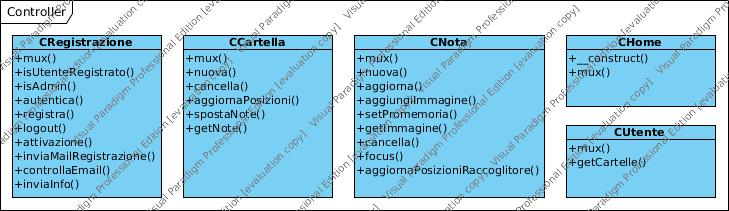
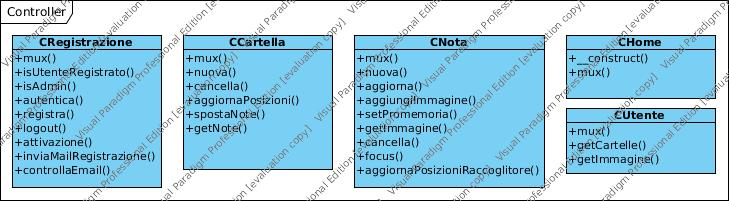
aggiornamenti

diff --git a/Controller/CNota.php b/Controller/CNota.php
@@ -324,7 +324,11 @@ class CNota {
     	}
     	$query1->execute();
     }
-    
+    /**
+    *Funzione che restituisce la posizione occupata dalla nota
+    *@param int $_id_cartella
+    *@return int posizione massima occupata
+    **/
     public function getPosizioneOccupata($_id_cartella) {
     	$fraccoglitoreNote=USingleton::getInstance('FRaccoglitore_note');
     	$session=USingleton::getInstance('USession');

diff --git a/Controller/CUtente.php b/Controller/CUtente.php
@@ -32,7 +32,9 @@ class CUtente {
 		$cartelle=$fraccoglitore->getCartelleByUtente($session->getValore("email"));
 		$VCartella->invia($cartelle);
 	}
-	
+	/**
+	*Restituisce l'immagine associata all'utente
+	*/
 	public function getImmagine(){
 		$FImmagine=USingleton::getInstance('FImmagine');
 		$image = $FImmagine->getImmagineByNome($_REQUEST['file']);
